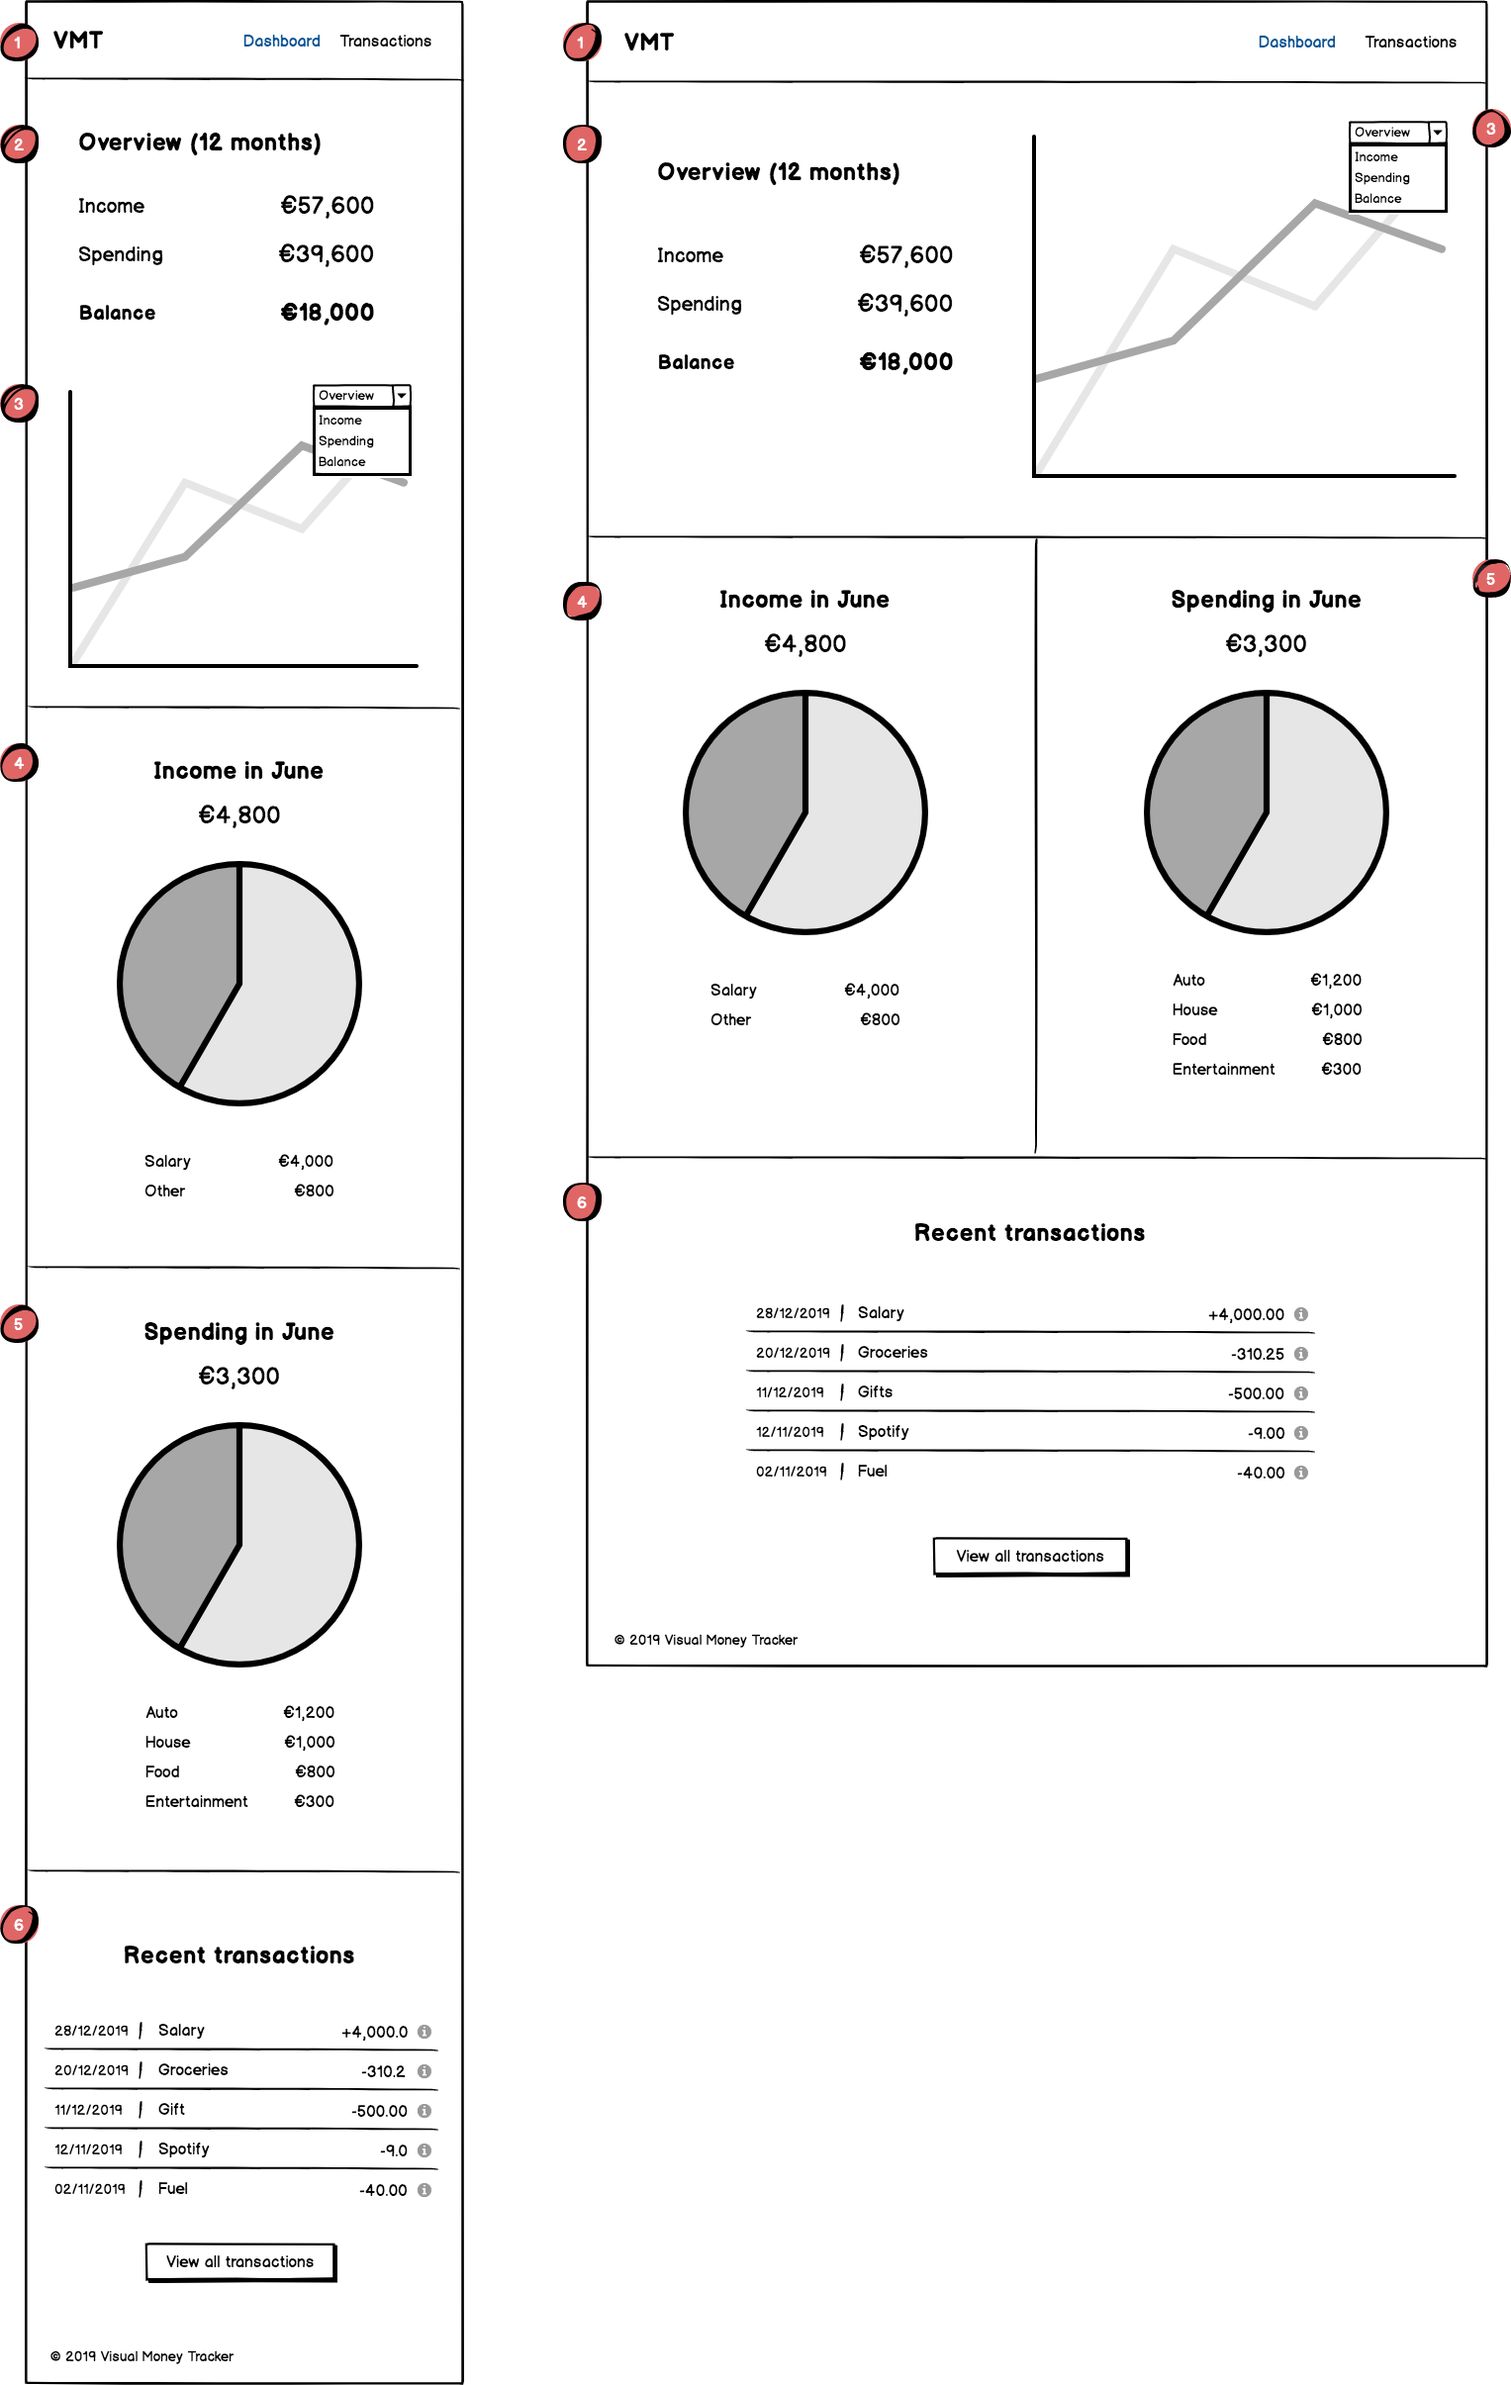
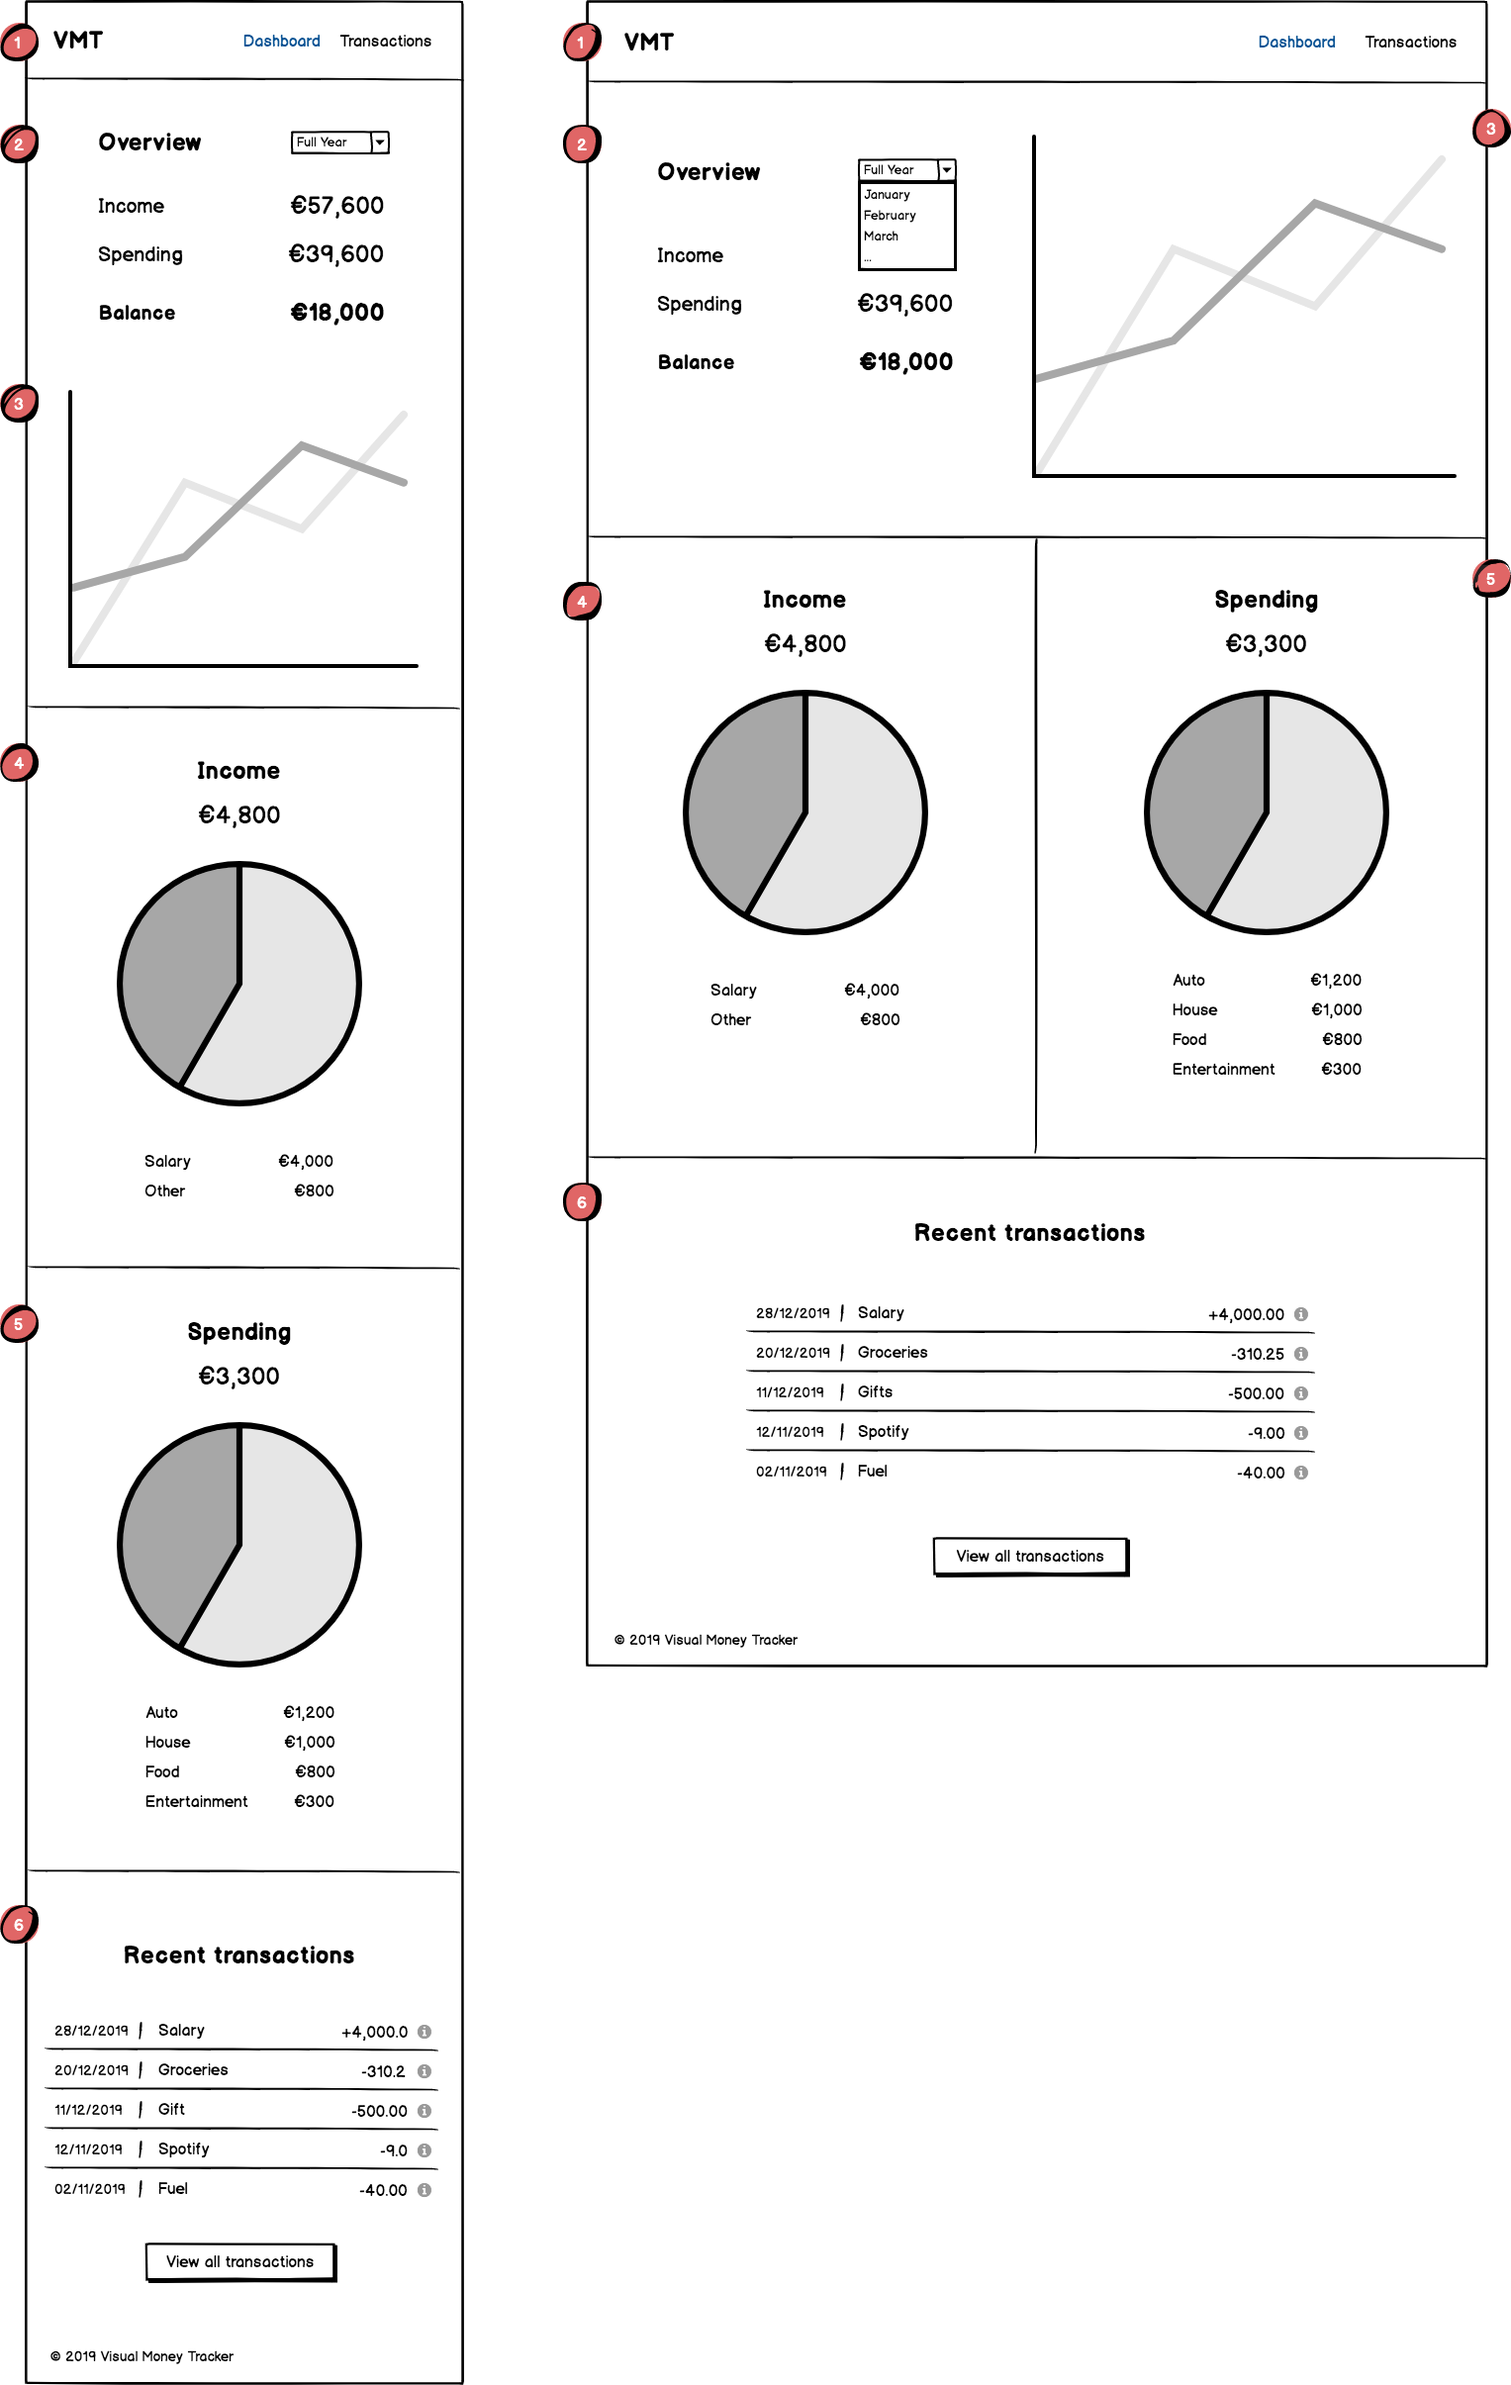
update text in wireframes and code

diff --git a/index.html b/index.html
@@ -56,7 +56,7 @@
             <div class="DataOverview">
               <div class="DataOverview__body">
 
-                <h1 class="DataOverview__headline">Overview (12 months)</h1>
+                <h1 class="DataOverview__headline">Overview</h1>
                 <div class="DataOverview__item">
                   <span class="DataOverview__item-headline">Income:</span>
                   <span class="DataOverview__item-amount" id="numberDisplayYearIncome"></span>
@@ -111,7 +111,7 @@
               <div class="DataSummary__body">
 
                 <div class="DataSummary__content">
-                  <h2 class="DataSummary__headline">Income in June</h2>
+                  <h2 class="DataSummary__headline">Income</h2>
                   <div id="numberDisplayIncome"></div>
                 </div>
                 <div class="DataSummary__chart">
@@ -132,7 +132,7 @@
               <div class="DataSummary__body">
 
                 <div class="DataSummary__content">
-                  <h2 class="DataSummary__headline">Spending in June</h2>
+                  <h2 class="DataSummary__headline">Spending</h2>
                   <div id="numberDisplaySpending"></div>
                 </div>
                 <div class="DataSummary__chart">

diff --git a/README.md b/README.md
@@ -60,18 +60,18 @@ To learn more about the needs of the user, please read the [Project Brief](ux/Pr
   - [x] Load income data from CSV file.
   - [x] Calculate monthly total.
   - [x] Display a line chart with data points for each month.
-  - [ ] Make the line green.
+  - [x] Make the line green.
 - As a user, I want to see my spending visually, so that, I know how much I spent over the year.
   - [x] Load spending data from CSV file.
   - [x] Calculate monthly total.
   - [x] Display a line chart with data points for each month.
-  - [ ] Make the line red.
-- As a user, I want to see my balance visually, so that, I know how my balance changed over the year.
-  - [ ] Calculate monthly total.
-  - [ ] Display a line chart with data points for each month.
-  - [ ] Make the line blue.
+  - [x] Make the line red.
+- ~~As a user, I want to see my balance visually, so that, I know how my balance changed over the year.~~
+  - [ ] ~~Calculate monthly total.~~
+  - [ ] ~~Display a line chart with data points for each month.~~
+  - [ ] ~~Make the line blue.~~
 - As a user, I want choose what data to display, so that, I can personalise my experience.
-  - [ ] Create a chart data selector.
+  - [x] Create a chart data selector.
 
 ---
 
@@ -79,7 +79,7 @@ To learn more about the needs of the user, please read the [Project Brief](ux/Pr
 
 - As a user, I want to see my income total for the current month, so that, I know how much I've earned this month.
   - [x] Add section heading.
-  - [ ] Calculate income total for the current month.
+  - [x] Calculate income total for the current month.
   - [x] Output value in Euros.
 - As a user, I want to see my income as chart, so that, I know what percentage I've received from each source.
   - [x] Display a pie chart with percentage values for each income source.
@@ -92,7 +92,7 @@ To learn more about the needs of the user, please read the [Project Brief](ux/Pr
 
 - As a user, I want to see my spending total for the current month, so that, I can see how much I've spent this month.
   - [x] Add section heading.
-  - [ ] Calculate spending total for the current month.
+  - [x] Calculate spending total for the current month.
   - [x] Output value in Euros.
  - As a user, I want to see my spending as chart, so that, I know what percentage I've spent in each category.
      - [x] Display a pie chart with percentage values for each spending category.
@@ -107,6 +107,7 @@ To learn more about the needs of the user, please read the [Project Brief](ux/Pr
   - [x] Load 5 recent transactions from CSV file.
   - [x] Output transactions data as a date, payee and amount.
   - [x] Sort transactions in descending order.
+  - [x] Filter data by each month or full year.
 - As a user, I want to access all transactions, so that, I can see all of my transactions.
   - [x] Add 'View all transactions' button.
 
@@ -139,7 +140,7 @@ _Feature Request!_
 
 _Features to be implemented in the future:_
 
-- Filter recent transaction based on chart selection
+- Calculate balance and plot data on chart
 - View an individual transaction
 - Add new transaction
 - Edit current transaction
